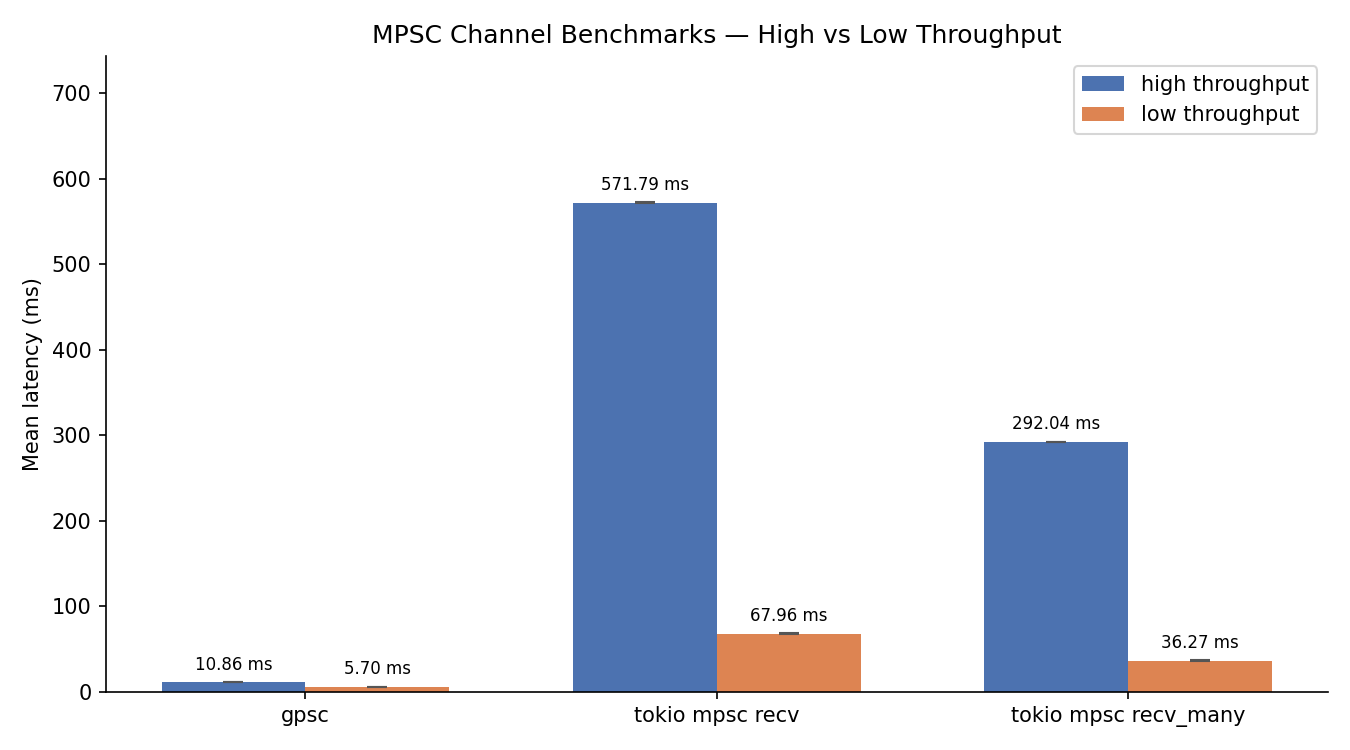
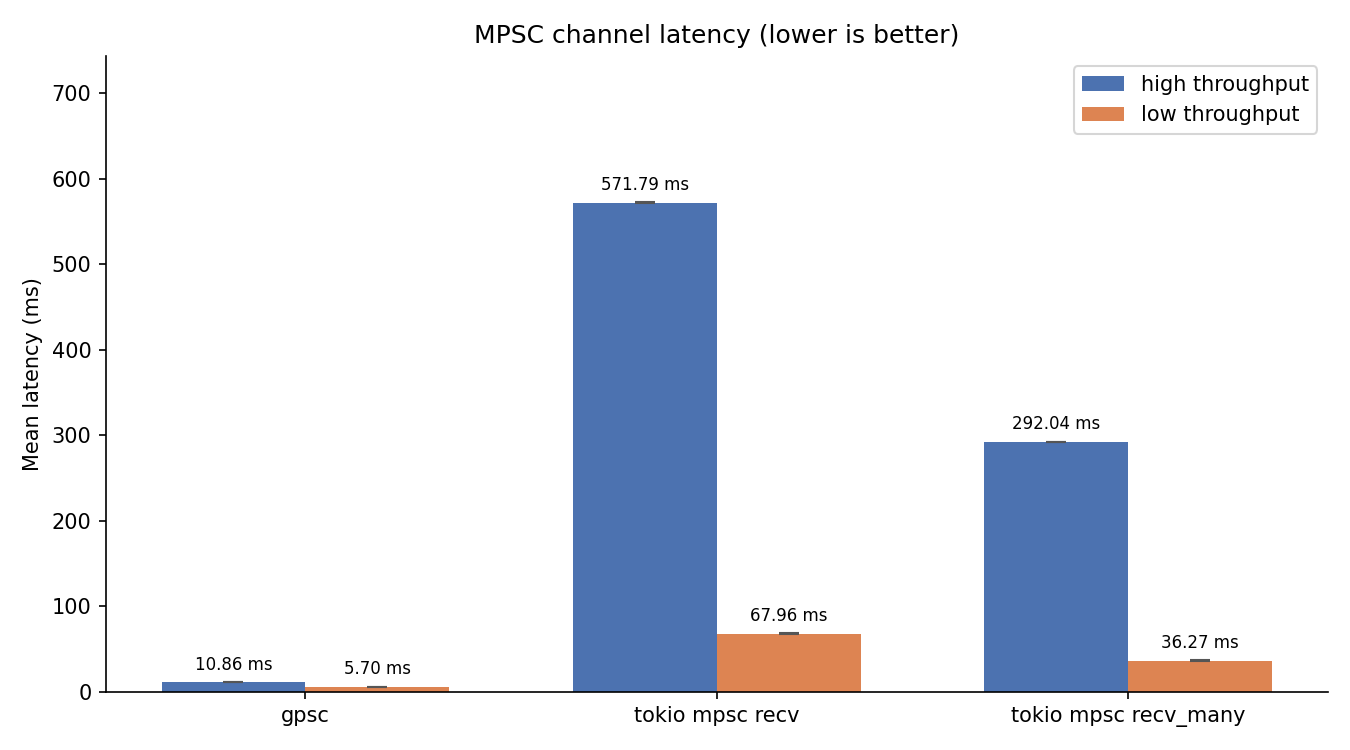
trait and chart adjusted

Changed region(s): [[0.28, 0.0307, 0.7778, 0.0613]]

diff --git a/chart.py b/chart.py
@@ -62,7 +62,7 @@ for i, group in enumerate(GROUPS):
     ax.bar_label(bars, fmt="%.2f ms", padding=4, fontsize=8)
 
 ax.set_ylabel("Mean latency (ms)")
-ax.set_title("MPSC Channel Benchmarks — High vs Low Throughput")
+ax.set_title("MPSC channel latency (lower is better)")
 ax.set_xticks(x + width / 2)
 ax.set_xticklabels(BENCHMARKS)
 ax.legend()

diff --git a/src/container.rs b/src/container.rs
@@ -3,7 +3,7 @@ use std::{
     hash::Hash,
 };
 
-/// you can implement this trait for your own collections
+/// Container trait used by container for the gpsc channel
 pub trait GpscContainer
 where
     Self: Sized,

diff --git a/src/lib.rs b/src/lib.rs
@@ -4,5 +4,6 @@ mod queue;
 pub mod tests;
 mod tx_rx;
 
+pub use container::GpscContainer;
 pub use error::GpscError;
 pub use tx_rx::{Receiver, Sender, channel};
